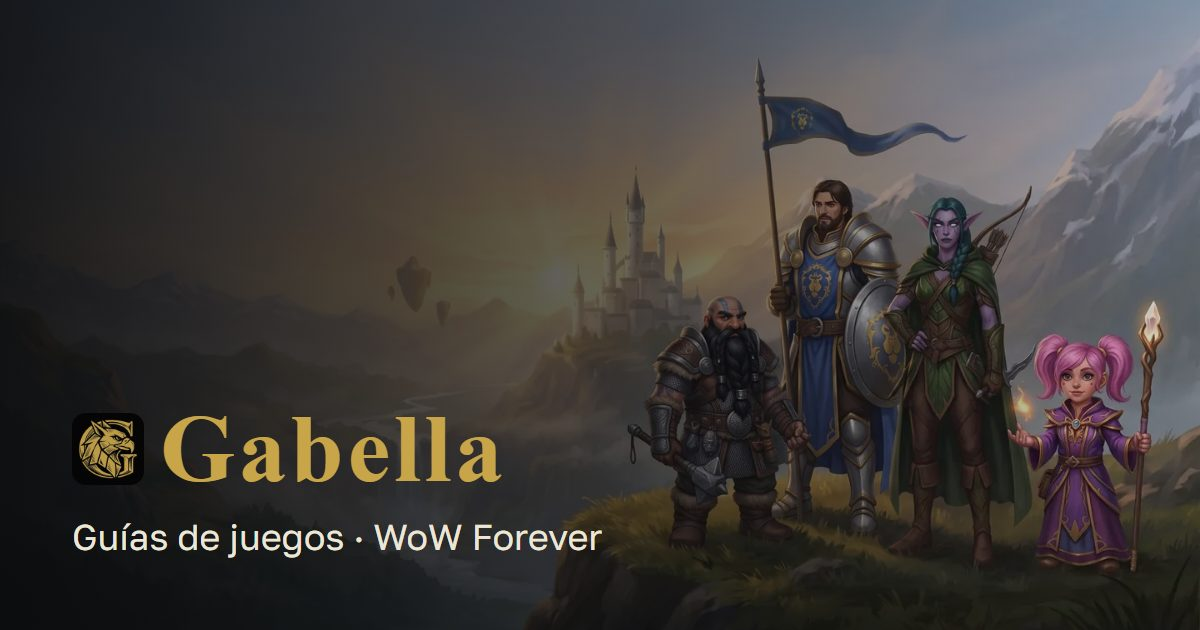
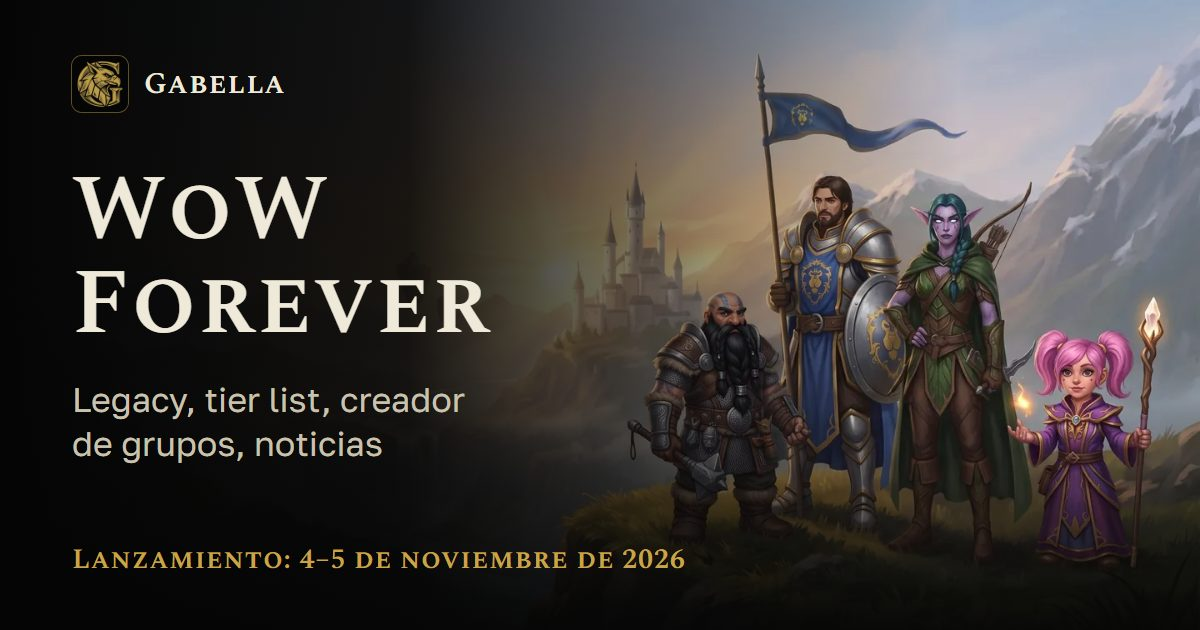
Хаб: превью ссылки для опытных игроков — Legacy, тир-лист, конструктор группы, время старта; twitter:title/description/image; og-картинка на шрифтах гида

diff --git a/uk/index.html b/uk/index.html
@@ -24,13 +24,13 @@
 <link rel="apple-touch-icon" href="/wow/assets/icons/apple-touch-icon.png?v=e9324028">
 <meta property="og:type" content="website">
 <meta property="og:site_name" content="Gabella">
-<meta property="og:title" content="Gabella — гайди з ігор: WoW Forever">
-<meta property="og:description" content="Гайди з WoW Forever (ВоВ Форевер): усі класи й раси, прокачування, підземелля і рейди, професії, FAQ, новини та інструменти для групи. Дев’ятьма мовами.">
+<meta property="og:title" content="WoW Forever: Legacy, тір-лист, конструктор групи">
+<meta property="og:description" content="Legacy: 65 випробувань і перки трьох дерев. Тір-лист класів за даними бети, конструктор групи й рейду, новини. Старт 04.11 о 23:00 UTC, за Києвом — 5 листопада о 01:00.">
 <meta property="og:url" content="https://gabella.site/uk/">
-<meta property="og:image" content="https://gabella.site/assets/og-uk.jpg?v=199e12be">
+<meta property="og:image" content="https://gabella.site/assets/og-uk.jpg?v=97b6081e">
 <meta property="og:image:width" content="1200">
 <meta property="og:image:height" content="630">
-<meta property="og:image:alt" content="Gabella — гайди з ігор: WoW Forever">
+<meta property="og:image:alt" content="WoW Forever: Legacy, тір-лист, конструктор групи">
 <meta property="og:locale" content="uk_UA">
 <meta property="og:locale:alternate" content="ru_RU">
 <meta property="og:locale:alternate" content="en_US">
@@ -41,6 +41,9 @@
 <meta property="og:locale:alternate" content="it_IT">
 <meta property="og:locale:alternate" content="pl_PL">
 <meta name="twitter:card" content="summary_large_image">
+<meta name="twitter:title" content="WoW Forever: Legacy, тір-лист, конструктор групи">
+<meta name="twitter:description" content="Legacy: 65 випробувань і перки трьох дерев. Тір-лист класів за даними бети, конструктор групи й рейду, новини. Старт 04.11 о 23:00 UTC, за Києвом — 5 листопада о 01:00.">
+<meta name="twitter:image" content="https://gabella.site/assets/og-uk.jpg?v=97b6081e">
 <style>
 @font-face { font-family: "Spectral SC"; font-style: normal; font-weight: 400 700; font-display: swap; src: url(/wow/assets/fonts/spectral-sc-cyrillic.woff2?v=f78bcdc2) format("woff2"); unicode-range: U+0301, U+0400-045F, U+0490-0491, U+04B0-04B1, U+2116; }
 @font-face { font-family: "Spectral SC"; font-style: normal; font-weight: 400 700; font-display: swap; src: url(/wow/assets/fonts/spectral-sc-latin-ext.woff2?v=1ba52ac6) format("woff2"); unicode-range: U+0100-02BA, U+02BD-02C5, U+02C7-02CC, U+02CE-02D7, U+02DD-02FF, U+0304, U+0308, U+0329, U+1D00-1DBF, U+1E00-1E9F, U+1EF2-1EFF, U+2020, U+20A0-20AB, U+20AD-20C4, U+2113, U+2C60-2C7F, U+A720-A7FF; }

diff --git a/index.html b/index.html
@@ -38,13 +38,13 @@
 <link rel="apple-touch-icon" href="/wow/assets/icons/apple-touch-icon.png?v=e9324028">
 <meta property="og:type" content="website">
 <meta property="og:site_name" content="Gabella">
-<meta property="og:title" content="Gabella — гайды по играм: WoW Forever">
-<meta property="og:description" content="Гайды по WoW Forever (ВоВ Форевер): все классы и расы, прокачка, подземелья и рейды, профессии, FAQ, новости и инструменты для группы. На 9 языках.">
+<meta property="og:title" content="WoW Forever: Legacy, тир-лист, конструктор группы">
+<meta property="og:description" content="Legacy: 65 испытаний и перки трёх деревьев. Тир-лист классов по бете, конструктор группы и рейда, новости. Старт 04.11 в 23:00 UTC, по Киеву — 5 ноября в 01:00.">
 <meta property="og:url" content="https://gabella.site/">
-<meta property="og:image" content="https://gabella.site/assets/og-ru.jpg?v=1d54bd07">
+<meta property="og:image" content="https://gabella.site/assets/og-ru.jpg?v=f892189b">
 <meta property="og:image:width" content="1200">
 <meta property="og:image:height" content="630">
-<meta property="og:image:alt" content="Gabella — гайды по играм: WoW Forever">
+<meta property="og:image:alt" content="WoW Forever: Legacy, тир-лист, конструктор группы">
 <meta property="og:locale" content="ru_RU">
 <meta property="og:locale:alternate" content="en_US">
 <meta property="og:locale:alternate" content="uk_UA">
@@ -55,6 +55,9 @@
 <meta property="og:locale:alternate" content="it_IT">
 <meta property="og:locale:alternate" content="pl_PL">
 <meta name="twitter:card" content="summary_large_image">
+<meta name="twitter:title" content="WoW Forever: Legacy, тир-лист, конструктор группы">
+<meta name="twitter:description" content="Legacy: 65 испытаний и перки трёх деревьев. Тир-лист классов по бете, конструктор группы и рейда, новости. Старт 04.11 в 23:00 UTC, по Киеву — 5 ноября в 01:00.">
+<meta name="twitter:image" content="https://gabella.site/assets/og-ru.jpg?v=f892189b">
 <style>
 @font-face { font-family: "Spectral SC"; font-style: normal; font-weight: 400 700; font-display: swap; src: url(/wow/assets/fonts/spectral-sc-cyrillic.woff2?v=f78bcdc2) format("woff2"); unicode-range: U+0301, U+0400-045F, U+0490-0491, U+04B0-04B1, U+2116; }
 @font-face { font-family: "Spectral SC"; font-style: normal; font-weight: 400 700; font-display: swap; src: url(/wow/assets/fonts/spectral-sc-latin-ext.woff2?v=1ba52ac6) format("woff2"); unicode-range: U+0100-02BA, U+02BD-02C5, U+02C7-02CC, U+02CE-02D7, U+02DD-02FF, U+0304, U+0308, U+0329, U+1D00-1DBF, U+1E00-1E9F, U+1EF2-1EFF, U+2020, U+20A0-20AB, U+20AD-20C4, U+2113, U+2C60-2C7F, U+A720-A7FF; }

diff --git a/uk/404.html b/uk/404.html
@@ -14,14 +14,17 @@
 <link rel="apple-touch-icon" href="/wow/assets/icons/apple-touch-icon.png?v=e9324028">
 <meta property="og:type" content="website">
 <meta property="og:site_name" content="Gabella">
-<meta property="og:title" content="Gabella — гайди з ігор: WoW Forever">
-<meta property="og:description" content="Гайди з WoW Forever (ВоВ Форевер): усі класи й раси, прокачування, підземелля і рейди, професії, FAQ, новини та інструменти для групи. Дев’ятьма мовами.">
-<meta property="og:image" content="https://gabella.site/assets/og-uk.jpg?v=199e12be">
+<meta property="og:title" content="WoW Forever: Legacy, тір-лист, конструктор групи">
+<meta property="og:description" content="Legacy: 65 випробувань і перки трьох дерев. Тір-лист класів за даними бети, конструктор групи й рейду, новини. Старт 04.11 о 23:00 UTC, за Києвом — 5 листопада о 01:00.">
+<meta property="og:image" content="https://gabella.site/assets/og-uk.jpg?v=97b6081e">
 <meta property="og:image:width" content="1200">
 <meta property="og:image:height" content="630">
-<meta property="og:image:alt" content="Gabella — гайди з ігор: WoW Forever">
+<meta property="og:image:alt" content="WoW Forever: Legacy, тір-лист, конструктор групи">
 <meta property="og:locale" content="uk_UA">
 <meta name="twitter:card" content="summary_large_image">
+<meta name="twitter:title" content="WoW Forever: Legacy, тір-лист, конструктор групи">
+<meta name="twitter:description" content="Legacy: 65 випробувань і перки трьох дерев. Тір-лист класів за даними бети, конструктор групи й рейду, новини. Старт 04.11 о 23:00 UTC, за Києвом — 5 листопада о 01:00.">
+<meta name="twitter:image" content="https://gabella.site/assets/og-uk.jpg?v=97b6081e">
 <style>
 @font-face { font-family: "Spectral SC"; font-style: normal; font-weight: 400 700; font-display: swap; src: url(/wow/assets/fonts/spectral-sc-cyrillic.woff2?v=f78bcdc2) format("woff2"); unicode-range: U+0301, U+0400-045F, U+0490-0491, U+04B0-04B1, U+2116; }
 @font-face { font-family: "Spectral SC"; font-style: normal; font-weight: 400 700; font-display: swap; src: url(/wow/assets/fonts/spectral-sc-latin-ext.woff2?v=1ba52ac6) format("woff2"); unicode-range: U+0100-02BA, U+02BD-02C5, U+02C7-02CC, U+02CE-02D7, U+02DD-02FF, U+0304, U+0308, U+0329, U+1D00-1DBF, U+1E00-1E9F, U+1EF2-1EFF, U+2020, U+20A0-20AB, U+20AD-20C4, U+2113, U+2C60-2C7F, U+A720-A7FF; }

diff --git a/404.html b/404.html
@@ -32,14 +32,17 @@
 <link rel="apple-touch-icon" href="/wow/assets/icons/apple-touch-icon.png?v=e9324028">
 <meta property="og:type" content="website">
 <meta property="og:site_name" content="Gabella">
-<meta property="og:title" content="Gabella — гайды по играм: WoW Forever">
-<meta property="og:description" content="Гайды по WoW Forever (ВоВ Форевер): все классы и расы, прокачка, подземелья и рейды, профессии, FAQ, новости и инструменты для группы. На 9 языках.">
-<meta property="og:image" content="https://gabella.site/assets/og-ru.jpg?v=1d54bd07">
+<meta property="og:title" content="WoW Forever: Legacy, тир-лист, конструктор группы">
+<meta property="og:description" content="Legacy: 65 испытаний и перки трёх деревьев. Тир-лист классов по бете, конструктор группы и рейда, новости. Старт 04.11 в 23:00 UTC, по Киеву — 5 ноября в 01:00.">
+<meta property="og:image" content="https://gabella.site/assets/og-ru.jpg?v=f892189b">
 <meta property="og:image:width" content="1200">
 <meta property="og:image:height" content="630">
-<meta property="og:image:alt" content="Gabella — гайды по играм: WoW Forever">
+<meta property="og:image:alt" content="WoW Forever: Legacy, тир-лист, конструктор группы">
 <meta property="og:locale" content="ru_RU">
 <meta name="twitter:card" content="summary_large_image">
+<meta name="twitter:title" content="WoW Forever: Legacy, тир-лист, конструктор группы">
+<meta name="twitter:description" content="Legacy: 65 испытаний и перки трёх деревьев. Тир-лист классов по бете, конструктор группы и рейда, новости. Старт 04.11 в 23:00 UTC, по Киеву — 5 ноября в 01:00.">
+<meta name="twitter:image" content="https://gabella.site/assets/og-ru.jpg?v=f892189b">
 <style>
 @font-face { font-family: "Spectral SC"; font-style: normal; font-weight: 400 700; font-display: swap; src: url(/wow/assets/fonts/spectral-sc-cyrillic.woff2?v=f78bcdc2) format("woff2"); unicode-range: U+0301, U+0400-045F, U+0490-0491, U+04B0-04B1, U+2116; }
 @font-face { font-family: "Spectral SC"; font-style: normal; font-weight: 400 700; font-display: swap; src: url(/wow/assets/fonts/spectral-sc-latin-ext.woff2?v=1ba52ac6) format("woff2"); unicode-range: U+0100-02BA, U+02BD-02C5, U+02C7-02CC, U+02CE-02D7, U+02DD-02FF, U+0304, U+0308, U+0329, U+1D00-1DBF, U+1E00-1E9F, U+1EF2-1EFF, U+2020, U+20A0-20AB, U+20AD-20C4, U+2113, U+2C60-2C7F, U+A720-A7FF; }

diff --git a/fr/index.html b/fr/index.html
@@ -24,13 +24,13 @@
 <link rel="apple-touch-icon" href="/wow/assets/icons/apple-touch-icon.png?v=e9324028">
 <meta property="og:type" content="website">
 <meta property="og:site_name" content="Gabella">
-<meta property="og:title" content="Gabella — guides de jeux : WoW Forever">
-<meta property="og:description" content="Guides WoW Forever : toutes les classes et races, progression, donjons et raids, métiers, FAQ, actualités et outils de groupe. En 9 langues.">
+<meta property="og:title" content="WoW Forever : Legacy, tier list, créateur de groupe">
+<meta property="og:description" content="Legacy : 65 défis et des bonus dans trois arbres. Tier list des classes d’après la bêta, créateur de groupe et de raid, actus. Lancement le 5 novembre à 00:00, heure de Paris.">
 <meta property="og:url" content="https://gabella.site/fr/">
-<meta property="og:image" content="https://gabella.site/assets/og-fr.jpg?v=2fd941e3">
+<meta property="og:image" content="https://gabella.site/assets/og-fr.jpg?v=c6afb5bc">
 <meta property="og:image:width" content="1200">
 <meta property="og:image:height" content="630">
-<meta property="og:image:alt" content="Gabella — guides de jeux : WoW Forever">
+<meta property="og:image:alt" content="WoW Forever : Legacy, tier list, créateur de groupe">
 <meta property="og:locale" content="fr_FR">
 <meta property="og:locale:alternate" content="ru_RU">
 <meta property="og:locale:alternate" content="en_US">
@@ -41,6 +41,9 @@
 <meta property="og:locale:alternate" content="it_IT">
 <meta property="og:locale:alternate" content="pl_PL">
 <meta name="twitter:card" content="summary_large_image">
+<meta name="twitter:title" content="WoW Forever : Legacy, tier list, créateur de groupe">
+<meta name="twitter:description" content="Legacy : 65 défis et des bonus dans trois arbres. Tier list des classes d’après la bêta, créateur de groupe et de raid, actus. Lancement le 5 novembre à 00:00, heure de Paris.">
+<meta name="twitter:image" content="https://gabella.site/assets/og-fr.jpg?v=c6afb5bc">
 <style>
 @font-face { font-family: "Spectral SC"; font-style: normal; font-weight: 400 700; font-display: swap; src: url(/wow/assets/fonts/spectral-sc-cyrillic.woff2?v=f78bcdc2) format("woff2"); unicode-range: U+0301, U+0400-045F, U+0490-0491, U+04B0-04B1, U+2116; }
 @font-face { font-family: "Spectral SC"; font-style: normal; font-weight: 400 700; font-display: swap; src: url(/wow/assets/fonts/spectral-sc-latin-ext.woff2?v=1ba52ac6) format("woff2"); unicode-range: U+0100-02BA, U+02BD-02C5, U+02C7-02CC, U+02CE-02D7, U+02DD-02FF, U+0304, U+0308, U+0329, U+1D00-1DBF, U+1E00-1E9F, U+1EF2-1EFF, U+2020, U+20A0-20AB, U+20AD-20C4, U+2113, U+2C60-2C7F, U+A720-A7FF; }

diff --git a/pt/index.html b/pt/index.html
@@ -24,13 +24,13 @@
 <link rel="apple-touch-icon" href="/wow/assets/icons/apple-touch-icon.png?v=e9324028">
 <meta property="og:type" content="website">
 <meta property="og:site_name" content="Gabella">
-<meta property="og:title" content="Gabella — guias de jogos: WoW Forever">
-<meta property="og:description" content="Guias de WoW Forever: todas as classes e raças, evolução, masmorras e raides, profissões, FAQ, notícias e ferramentas para o grupo. Em 9 idiomas.">
+<meta property="og:title" content="WoW Forever: Legacy, tier list, montador de grupo">
+<meta property="og:description" content="Legacy: 65 desafios e vantagens em três árvores. Tier list de classes pela beta, montador de grupo e raide, notícias. Lançamento em 4 de novembro às 20:00, horário de Brasília.">
 <meta property="og:url" content="https://gabella.site/pt/">
-<meta property="og:image" content="https://gabella.site/assets/og-pt.jpg?v=99fc8d86">
+<meta property="og:image" content="https://gabella.site/assets/og-pt.jpg?v=19f6589e">
 <meta property="og:image:width" content="1200">
 <meta property="og:image:height" content="630">
-<meta property="og:image:alt" content="Gabella — guias de jogos: WoW Forever">
+<meta property="og:image:alt" content="WoW Forever: Legacy, tier list, montador de grupo">
 <meta property="og:locale" content="pt_BR">
 <meta property="og:locale:alternate" content="ru_RU">
 <meta property="og:locale:alternate" content="en_US">
@@ -41,6 +41,9 @@
 <meta property="og:locale:alternate" content="it_IT">
 <meta property="og:locale:alternate" content="pl_PL">
 <meta name="twitter:card" content="summary_large_image">
+<meta name="twitter:title" content="WoW Forever: Legacy, tier list, montador de grupo">
+<meta name="twitter:description" content="Legacy: 65 desafios e vantagens em três árvores. Tier list de classes pela beta, montador de grupo e raide, notícias. Lançamento em 4 de novembro às 20:00, horário de Brasília.">
+<meta name="twitter:image" content="https://gabella.site/assets/og-pt.jpg?v=19f6589e">
 <style>
 @font-face { font-family: "Spectral SC"; font-style: normal; font-weight: 400 700; font-display: swap; src: url(/wow/assets/fonts/spectral-sc-cyrillic.woff2?v=f78bcdc2) format("woff2"); unicode-range: U+0301, U+0400-045F, U+0490-0491, U+04B0-04B1, U+2116; }
 @font-face { font-family: "Spectral SC"; font-style: normal; font-weight: 400 700; font-display: swap; src: url(/wow/assets/fonts/spectral-sc-latin-ext.woff2?v=1ba52ac6) format("woff2"); unicode-range: U+0100-02BA, U+02BD-02C5, U+02C7-02CC, U+02CE-02D7, U+02DD-02FF, U+0304, U+0308, U+0329, U+1D00-1DBF, U+1E00-1E9F, U+1EF2-1EFF, U+2020, U+20A0-20AB, U+20AD-20C4, U+2113, U+2C60-2C7F, U+A720-A7FF; }

diff --git a/it/index.html b/it/index.html
@@ -24,13 +24,13 @@
 <link rel="apple-touch-icon" href="/wow/assets/icons/apple-touch-icon.png?v=e9324028">
 <meta property="og:type" content="website">
 <meta property="og:site_name" content="Gabella">
-<meta property="og:title" content="Gabella — guide di gioco: WoW Forever">
-<meta property="og:description" content="Guide a WoW Forever: tutte le classi e razze, livellamento, spedizioni e incursioni, professioni, FAQ, notizie e strumenti per il gruppo. In 9 lingue.">
+<meta property="og:title" content="WoW Forever: Legacy, tier list, creatore di gruppi">
+<meta property="og:description" content="Legacy: 65 sfide e vantaggi in tre alberi. Tier list delle classi dai dati della beta, creatore di gruppi e incursioni, notizie. Uscita il 5 novembre alle 00:00, ora italiana.">
 <meta property="og:url" content="https://gabella.site/it/">
-<meta property="og:image" content="https://gabella.site/assets/og-it.jpg?v=0d070c28">
+<meta property="og:image" content="https://gabella.site/assets/og-it.jpg?v=a660ee51">
 <meta property="og:image:width" content="1200">
 <meta property="og:image:height" content="630">
-<meta property="og:image:alt" content="Gabella — guide di gioco: WoW Forever">
+<meta property="og:image:alt" content="WoW Forever: Legacy, tier list, creatore di gruppi">
 <meta property="og:locale" content="it_IT">
 <meta property="og:locale:alternate" content="ru_RU">
 <meta property="og:locale:alternate" content="en_US">
@@ -41,6 +41,9 @@
 <meta property="og:locale:alternate" content="pt_BR">
 <meta property="og:locale:alternate" content="pl_PL">
 <meta name="twitter:card" content="summary_large_image">
+<meta name="twitter:title" content="WoW Forever: Legacy, tier list, creatore di gruppi">
+<meta name="twitter:description" content="Legacy: 65 sfide e vantaggi in tre alberi. Tier list delle classi dai dati della beta, creatore di gruppi e incursioni, notizie. Uscita il 5 novembre alle 00:00, ora italiana.">
+<meta name="twitter:image" content="https://gabella.site/assets/og-it.jpg?v=a660ee51">
 <style>
 @font-face { font-family: "Spectral SC"; font-style: normal; font-weight: 400 700; font-display: swap; src: url(/wow/assets/fonts/spectral-sc-cyrillic.woff2?v=f78bcdc2) format("woff2"); unicode-range: U+0301, U+0400-045F, U+0490-0491, U+04B0-04B1, U+2116; }
 @font-face { font-family: "Spectral SC"; font-style: normal; font-weight: 400 700; font-display: swap; src: url(/wow/assets/fonts/spectral-sc-latin-ext.woff2?v=1ba52ac6) format("woff2"); unicode-range: U+0100-02BA, U+02BD-02C5, U+02C7-02CC, U+02CE-02D7, U+02DD-02FF, U+0304, U+0308, U+0329, U+1D00-1DBF, U+1E00-1E9F, U+1EF2-1EFF, U+2020, U+20A0-20AB, U+20AD-20C4, U+2113, U+2C60-2C7F, U+A720-A7FF; }

diff --git a/es/index.html b/es/index.html
@@ -24,13 +24,13 @@
 <link rel="apple-touch-icon" href="/wow/assets/icons/apple-touch-icon.png?v=e9324028">
 <meta property="og:type" content="website">
 <meta property="og:site_name" content="Gabella">
-<meta property="og:title" content="Gabella — guías de juegos: WoW Forever">
-<meta property="og:description" content="Guías de WoW Forever: todas las clases y razas, subida de nivel, mazmorras y bandas, profesiones, FAQ, noticias y herramientas para el grupo. En 9 idiomas.">
+<meta property="og:title" content="WoW Forever: Legacy, tier list, creador de grupos">
+<meta property="og:description" content="Legacy: 65 desafíos y ventajas en tres árboles. Tier list de clases según la beta, creador de grupos y bandas, noticias. Lanzamiento el 4 de noviembre a las 23:00 UTC.">
 <meta property="og:url" content="https://gabella.site/es/">
-<meta property="og:image" content="https://gabella.site/assets/og-es.jpg?v=63e7b3a0">
+<meta property="og:image" content="https://gabella.site/assets/og-es.jpg?v=66229757">
 <meta property="og:image:width" content="1200">
 <meta property="og:image:height" content="630">
-<meta property="og:image:alt" content="Gabella — guías de juegos: WoW Forever">
+<meta property="og:image:alt" content="WoW Forever: Legacy, tier list, creador de grupos">
 <meta property="og:locale" content="es_ES">
 <meta property="og:locale:alternate" content="ru_RU">
 <meta property="og:locale:alternate" content="en_US">
@@ -41,6 +41,9 @@
 <meta property="og:locale:alternate" content="it_IT">
 <meta property="og:locale:alternate" content="pl_PL">
 <meta name="twitter:card" content="summary_large_image">
+<meta name="twitter:title" content="WoW Forever: Legacy, tier list, creador de grupos">
+<meta name="twitter:description" content="Legacy: 65 desafíos y ventajas en tres árboles. Tier list de clases según la beta, creador de grupos y bandas, noticias. Lanzamiento el 4 de noviembre a las 23:00 UTC.">
+<meta name="twitter:image" content="https://gabella.site/assets/og-es.jpg?v=66229757">
 <style>
 @font-face { font-family: "Spectral SC"; font-style: normal; font-weight: 400 700; font-display: swap; src: url(/wow/assets/fonts/spectral-sc-cyrillic.woff2?v=f78bcdc2) format("woff2"); unicode-range: U+0301, U+0400-045F, U+0490-0491, U+04B0-04B1, U+2116; }
 @font-face { font-family: "Spectral SC"; font-style: normal; font-weight: 400 700; font-display: swap; src: url(/wow/assets/fonts/spectral-sc-latin-ext.woff2?v=1ba52ac6) format("woff2"); unicode-range: U+0100-02BA, U+02BD-02C5, U+02C7-02CC, U+02CE-02D7, U+02DD-02FF, U+0304, U+0308, U+0329, U+1D00-1DBF, U+1E00-1E9F, U+1EF2-1EFF, U+2020, U+20A0-20AB, U+20AD-20C4, U+2113, U+2C60-2C7F, U+A720-A7FF; }

diff --git a/de/index.html b/de/index.html
@@ -24,13 +24,13 @@
 <link rel="apple-touch-icon" href="/wow/assets/icons/apple-touch-icon.png?v=e9324028">
 <meta property="og:type" content="website">
 <meta property="og:site_name" content="Gabella">
-<meta property="og:title" content="Gabella — Spiel-Guides: WoW Forever">
-<meta property="og:description" content="Guides zu WoW Forever: alle Klassen und Völker, Leveln, Dungeons und Raids, Berufe, FAQ, News und Tools für die Gruppe. In 9 Sprachen.">
+<meta property="og:title" content="WoW Forever: Legacy, Tierliste, Gruppenplaner">
+<meta property="og:description" content="Legacy: 65 Herausforderungen und Vorteile in drei Bäumen. Klassen-Tierliste nach Beta-Daten, Gruppen- und Schlachtzugsplaner, News. Start am 5. November um 00:00 Uhr MEZ.">
 <meta property="og:url" content="https://gabella.site/de/">
-<meta property="og:image" content="https://gabella.site/assets/og-de.jpg?v=cd6feee6">
+<meta property="og:image" content="https://gabella.site/assets/og-de.jpg?v=3d18ba33">
 <meta property="og:image:width" content="1200">
 <meta property="og:image:height" content="630">
-<meta property="og:image:alt" content="Gabella — Spiel-Guides: WoW Forever">
+<meta property="og:image:alt" content="WoW Forever: Legacy, Tierliste, Gruppenplaner">
 <meta property="og:locale" content="de_DE">
 <meta property="og:locale:alternate" content="ru_RU">
 <meta property="og:locale:alternate" content="en_US">
@@ -41,6 +41,9 @@
 <meta property="og:locale:alternate" content="it_IT">
 <meta property="og:locale:alternate" content="pl_PL">
 <meta name="twitter:card" content="summary_large_image">
+<meta name="twitter:title" content="WoW Forever: Legacy, Tierliste, Gruppenplaner">
+<meta name="twitter:description" content="Legacy: 65 Herausforderungen und Vorteile in drei Bäumen. Klassen-Tierliste nach Beta-Daten, Gruppen- und Schlachtzugsplaner, News. Start am 5. November um 00:00 Uhr MEZ.">
+<meta name="twitter:image" content="https://gabella.site/assets/og-de.jpg?v=3d18ba33">
 <style>
 @font-face { font-family: "Spectral SC"; font-style: normal; font-weight: 400 700; font-display: swap; src: url(/wow/assets/fonts/spectral-sc-cyrillic.woff2?v=f78bcdc2) format("woff2"); unicode-range: U+0301, U+0400-045F, U+0490-0491, U+04B0-04B1, U+2116; }
 @font-face { font-family: "Spectral SC"; font-style: normal; font-weight: 400 700; font-display: swap; src: url(/wow/assets/fonts/spectral-sc-latin-ext.woff2?v=1ba52ac6) format("woff2"); unicode-range: U+0100-02BA, U+02BD-02C5, U+02C7-02CC, U+02CE-02D7, U+02DD-02FF, U+0304, U+0308, U+0329, U+1D00-1DBF, U+1E00-1E9F, U+1EF2-1EFF, U+2020, U+20A0-20AB, U+20AD-20C4, U+2113, U+2C60-2C7F, U+A720-A7FF; }

diff --git a/pl/index.html b/pl/index.html
@@ -24,13 +24,13 @@
 <link rel="apple-touch-icon" href="/wow/assets/icons/apple-touch-icon.png?v=e9324028">
 <meta property="og:type" content="website">
 <meta property="og:site_name" content="Gabella">
-<meta property="og:title" content="Gabella — poradniki do gier: WoW Forever">
-<meta property="og:description" content="Poradniki do WoW Forever: wszystkie klasy i rasy, levelowanie, dungeony i raidy, profesje, FAQ, newsy i narzędzia dla drużyny. W 9 językach.">
+<meta property="og:title" content="WoW Forever: Legacy, tier lista, kreator drużyny">
+<meta property="og:description" content="Legacy: 65 wyzwań i perki w trzech drzewkach. Tier lista klas według bety, kreator drużyny i raidu, newsy. Start 5 listopada o 00:00 czasu polskiego.">
 <meta property="og:url" content="https://gabella.site/pl/">
-<meta property="og:image" content="https://gabella.site/assets/og-pl.jpg?v=07808e81">
+<meta property="og:image" content="https://gabella.site/assets/og-pl.jpg?v=7cf73303">
 <meta property="og:image:width" content="1200">
 <meta property="og:image:height" content="630">
-<meta property="og:image:alt" content="Gabella — poradniki do gier: WoW Forever">
+<meta property="og:image:alt" content="WoW Forever: Legacy, tier lista, kreator drużyny">
 <meta property="og:locale" content="pl_PL">
 <meta property="og:locale:alternate" content="ru_RU">
 <meta property="og:locale:alternate" content="en_US">
@@ -41,6 +41,9 @@
 <meta property="og:locale:alternate" content="pt_BR">
 <meta property="og:locale:alternate" content="it_IT">
 <meta name="twitter:card" content="summary_large_image">
+<meta name="twitter:title" content="WoW Forever: Legacy, tier lista, kreator drużyny">
+<meta name="twitter:description" content="Legacy: 65 wyzwań i perki w trzech drzewkach. Tier lista klas według bety, kreator drużyny i raidu, newsy. Start 5 listopada o 00:00 czasu polskiego.">
+<meta name="twitter:image" content="https://gabella.site/assets/og-pl.jpg?v=7cf73303">
 <style>
 @font-face { font-family: "Spectral SC"; font-style: normal; font-weight: 400 700; font-display: swap; src: url(/wow/assets/fonts/spectral-sc-cyrillic.woff2?v=f78bcdc2) format("woff2"); unicode-range: U+0301, U+0400-045F, U+0490-0491, U+04B0-04B1, U+2116; }
 @font-face { font-family: "Spectral SC"; font-style: normal; font-weight: 400 700; font-display: swap; src: url(/wow/assets/fonts/spectral-sc-latin-ext.woff2?v=1ba52ac6) format("woff2"); unicode-range: U+0100-02BA, U+02BD-02C5, U+02C7-02CC, U+02CE-02D7, U+02DD-02FF, U+0304, U+0308, U+0329, U+1D00-1DBF, U+1E00-1E9F, U+1EF2-1EFF, U+2020, U+20A0-20AB, U+20AD-20C4, U+2113, U+2C60-2C7F, U+A720-A7FF; }

diff --git a/en/index.html b/en/index.html
@@ -24,13 +24,13 @@
 <link rel="apple-touch-icon" href="/wow/assets/icons/apple-touch-icon.png?v=e9324028">
 <meta property="og:type" content="website">
 <meta property="og:site_name" content="Gabella">
-<meta property="og:title" content="Gabella — Game Guides: WoW Forever">
-<meta property="og:description" content="WoW Forever guides: every class and race, leveling, dungeons and raids, professions, FAQ, news and group tools. In 9 languages.">
+<meta property="og:title" content="WoW Forever: Legacy, Tier List, Group Builder">
+<meta property="og:description" content="Legacy: 65 challenges and perks in three trees. Class tier list from beta data, group and raid builder, news. Launch Nov 4 at 23:00 UTC.">
 <meta property="og:url" content="https://gabella.site/en/">
-<meta property="og:image" content="https://gabella.site/assets/og-en.jpg?v=c24bf142">
+<meta property="og:image" content="https://gabella.site/assets/og-en.jpg?v=bdab6e2e">
 <meta property="og:image:width" content="1200">
 <meta property="og:image:height" content="630">
-<meta property="og:image:alt" content="Gabella — Game Guides: WoW Forever">
+<meta property="og:image:alt" content="WoW Forever: Legacy, Tier List, Group Builder">
 <meta property="og:locale" content="en_US">
 <meta property="og:locale:alternate" content="ru_RU">
 <meta property="og:locale:alternate" content="uk_UA">
@@ -41,6 +41,9 @@
 <meta property="og:locale:alternate" content="it_IT">
 <meta property="og:locale:alternate" content="pl_PL">
 <meta name="twitter:card" content="summary_large_image">
+<meta name="twitter:title" content="WoW Forever: Legacy, Tier List, Group Builder">
+<meta name="twitter:description" content="Legacy: 65 challenges and perks in three trees. Class tier list from beta data, group and raid builder, news. Launch Nov 4 at 23:00 UTC.">
+<meta name="twitter:image" content="https://gabella.site/assets/og-en.jpg?v=bdab6e2e">
 <style>
 @font-face { font-family: "Spectral SC"; font-style: normal; font-weight: 400 700; font-display: swap; src: url(/wow/assets/fonts/spectral-sc-cyrillic.woff2?v=f78bcdc2) format("woff2"); unicode-range: U+0301, U+0400-045F, U+0490-0491, U+04B0-04B1, U+2116; }
 @font-face { font-family: "Spectral SC"; font-style: normal; font-weight: 400 700; font-display: swap; src: url(/wow/assets/fonts/spectral-sc-latin-ext.woff2?v=1ba52ac6) format("woff2"); unicode-range: U+0100-02BA, U+02BD-02C5, U+02C7-02CC, U+02CE-02D7, U+02DD-02FF, U+0304, U+0308, U+0329, U+1D00-1DBF, U+1E00-1E9F, U+1EF2-1EFF, U+2020, U+20A0-20AB, U+20AD-20C4, U+2113, U+2C60-2C7F, U+A720-A7FF; }

diff --git a/fr/404.html b/fr/404.html
@@ -14,14 +14,17 @@
 <link rel="apple-touch-icon" href="/wow/assets/icons/apple-touch-icon.png?v=e9324028">
 <meta property="og:type" content="website">
 <meta property="og:site_name" content="Gabella">
-<meta property="og:title" content="Gabella — guides de jeux : WoW Forever">
-<meta property="og:description" content="Guides WoW Forever : toutes les classes et races, progression, donjons et raids, métiers, FAQ, actualités et outils de groupe. En 9 langues.">
-<meta property="og:image" content="https://gabella.site/assets/og-fr.jpg?v=2fd941e3">
+<meta property="og:title" content="WoW Forever : Legacy, tier list, créateur de groupe">
+<meta property="og:description" content="Legacy : 65 défis et des bonus dans trois arbres. Tier list des classes d’après la bêta, créateur de groupe et de raid, actus. Lancement le 5 novembre à 00:00, heure de Paris.">
+<meta property="og:image" content="https://gabella.site/assets/og-fr.jpg?v=c6afb5bc">
 <meta property="og:image:width" content="1200">
 <meta property="og:image:height" content="630">
-<meta property="og:image:alt" content="Gabella — guides de jeux : WoW Forever">
+<meta property="og:image:alt" content="WoW Forever : Legacy, tier list, créateur de groupe">
 <meta property="og:locale" content="fr_FR">
 <meta name="twitter:card" content="summary_large_image">
+<meta name="twitter:title" content="WoW Forever : Legacy, tier list, créateur de groupe">
+<meta name="twitter:description" content="Legacy : 65 défis et des bonus dans trois arbres. Tier list des classes d’après la bêta, créateur de groupe et de raid, actus. Lancement le 5 novembre à 00:00, heure de Paris.">
+<meta name="twitter:image" content="https://gabella.site/assets/og-fr.jpg?v=c6afb5bc">
 <style>
 @font-face { font-family: "Spectral SC"; font-style: normal; font-weight: 400 700; font-display: swap; src: url(/wow/assets/fonts/spectral-sc-cyrillic.woff2?v=f78bcdc2) format("woff2"); unicode-range: U+0301, U+0400-045F, U+0490-0491, U+04B0-04B1, U+2116; }
 @font-face { font-family: "Spectral SC"; font-style: normal; font-weight: 400 700; font-display: swap; src: url(/wow/assets/fonts/spectral-sc-latin-ext.woff2?v=1ba52ac6) format("woff2"); unicode-range: U+0100-02BA, U+02BD-02C5, U+02C7-02CC, U+02CE-02D7, U+02DD-02FF, U+0304, U+0308, U+0329, U+1D00-1DBF, U+1E00-1E9F, U+1EF2-1EFF, U+2020, U+20A0-20AB, U+20AD-20C4, U+2113, U+2C60-2C7F, U+A720-A7FF; }
